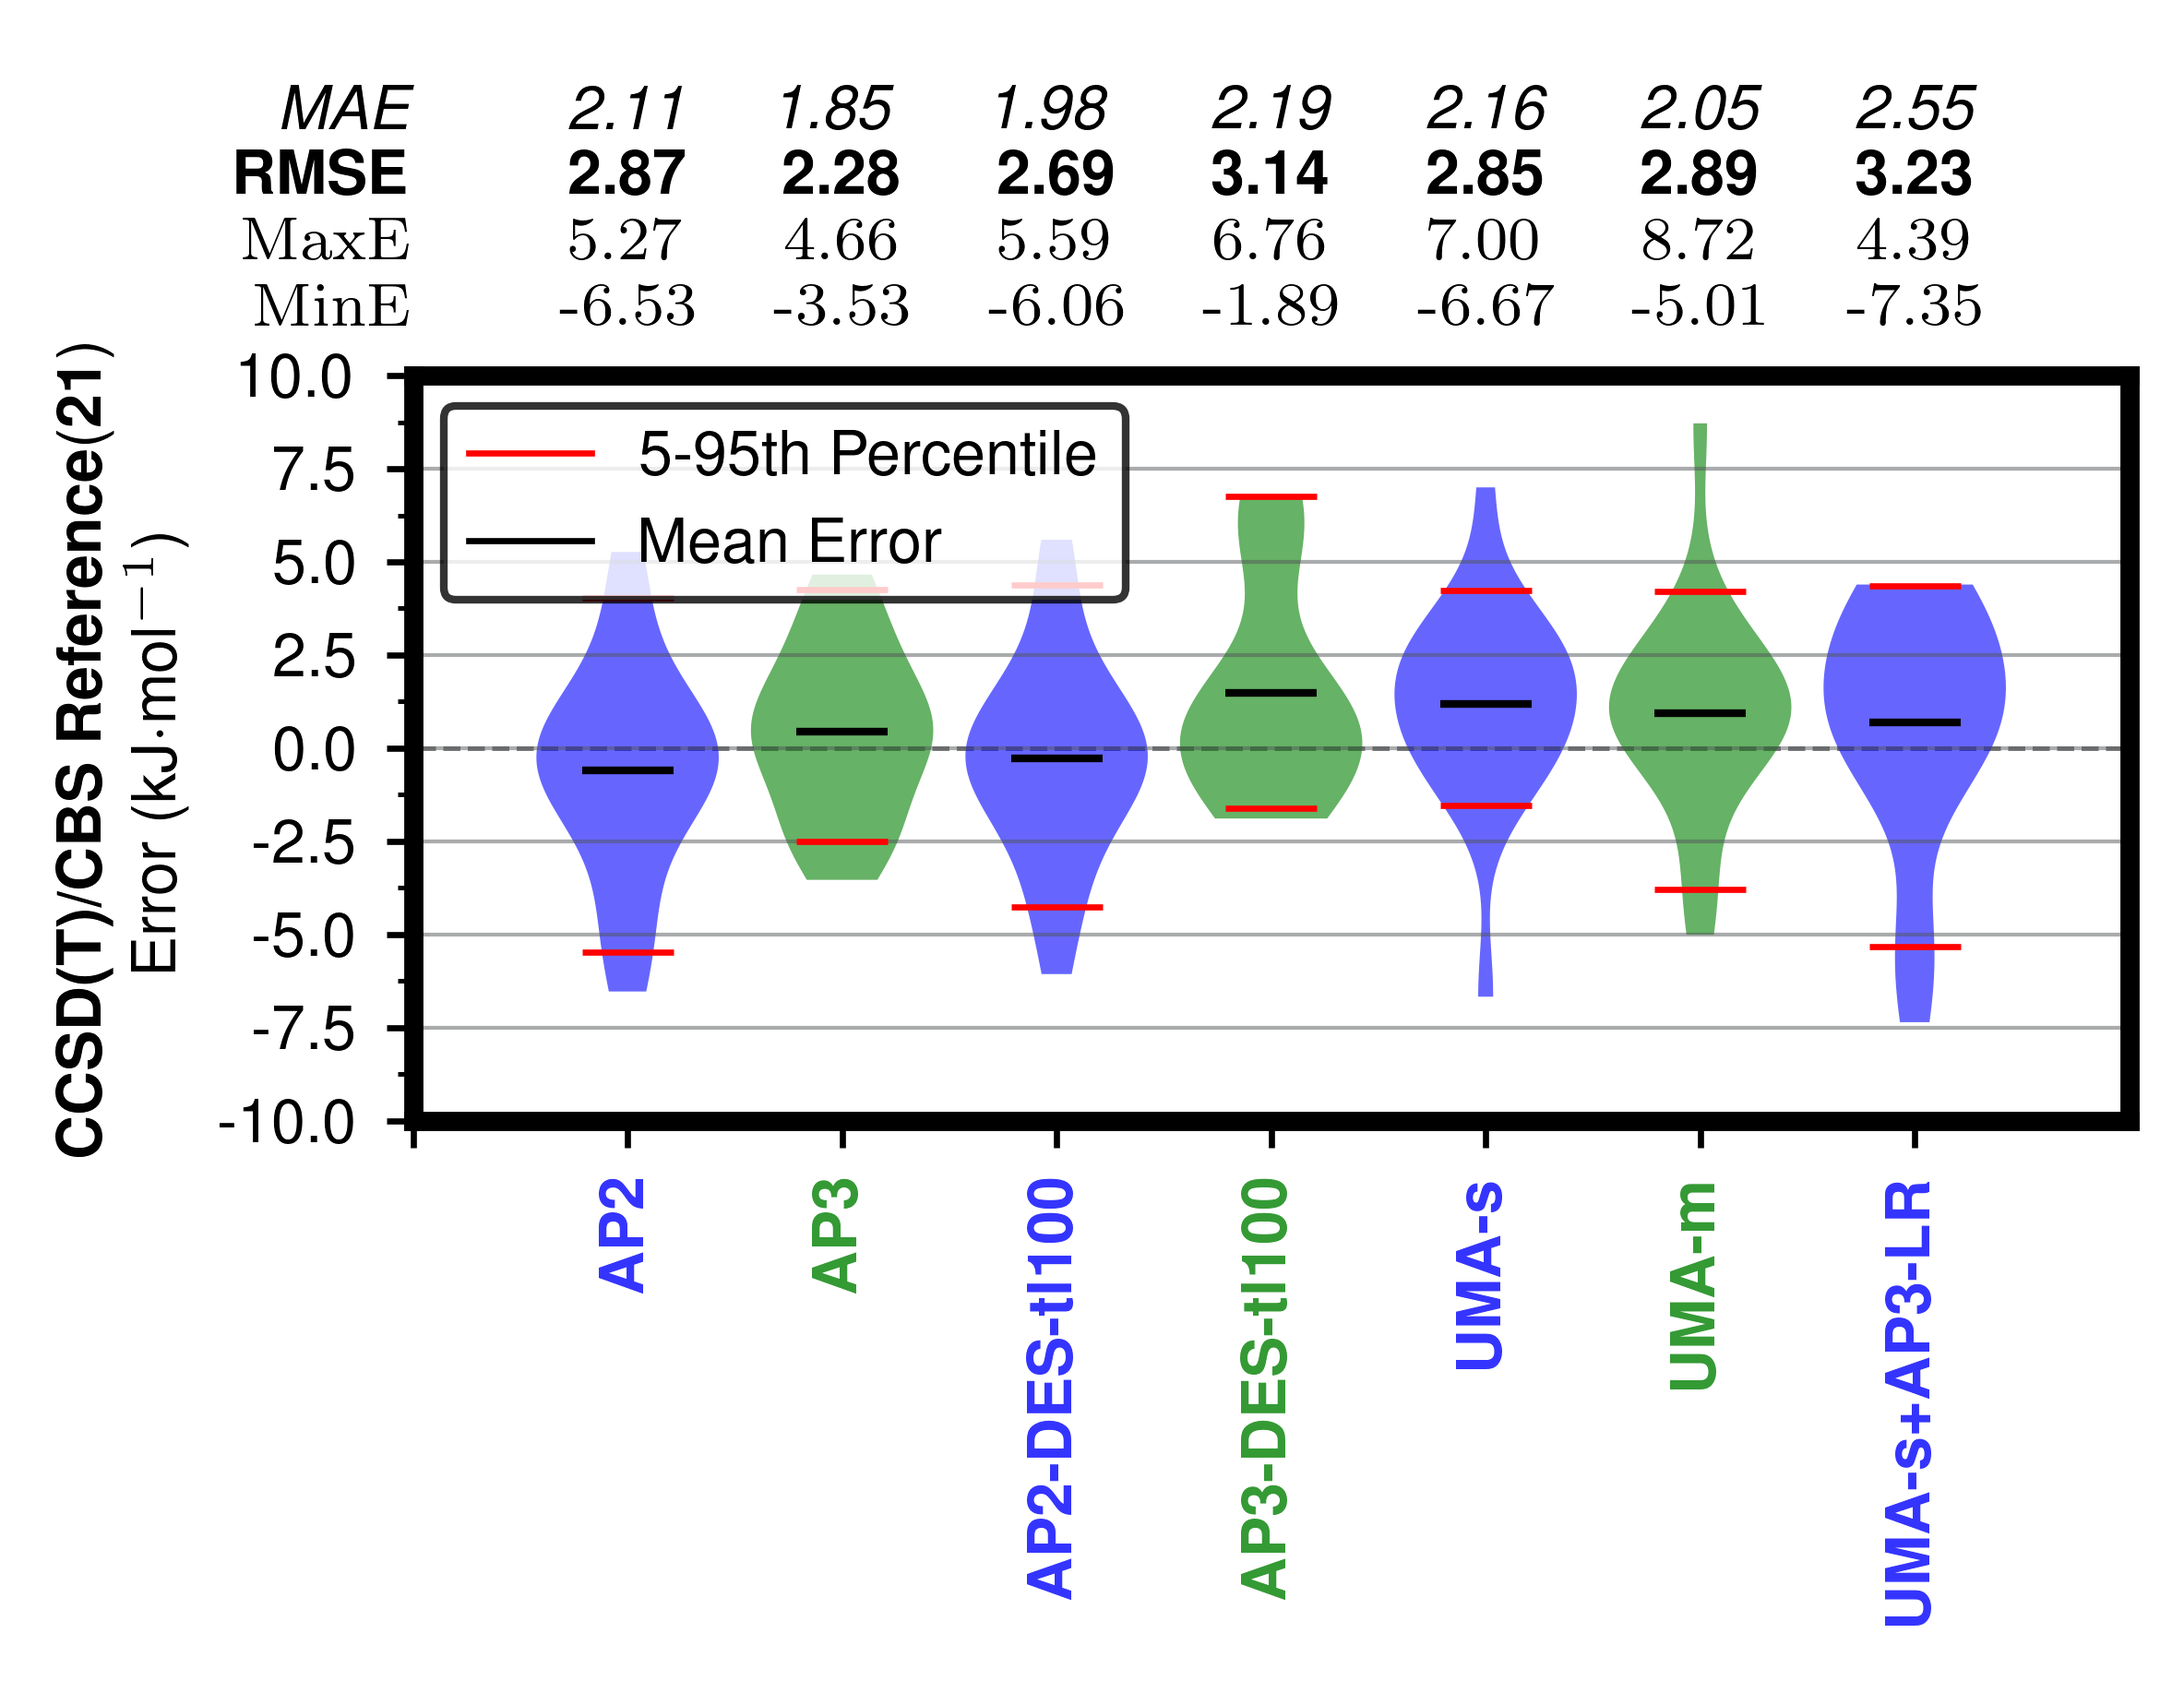
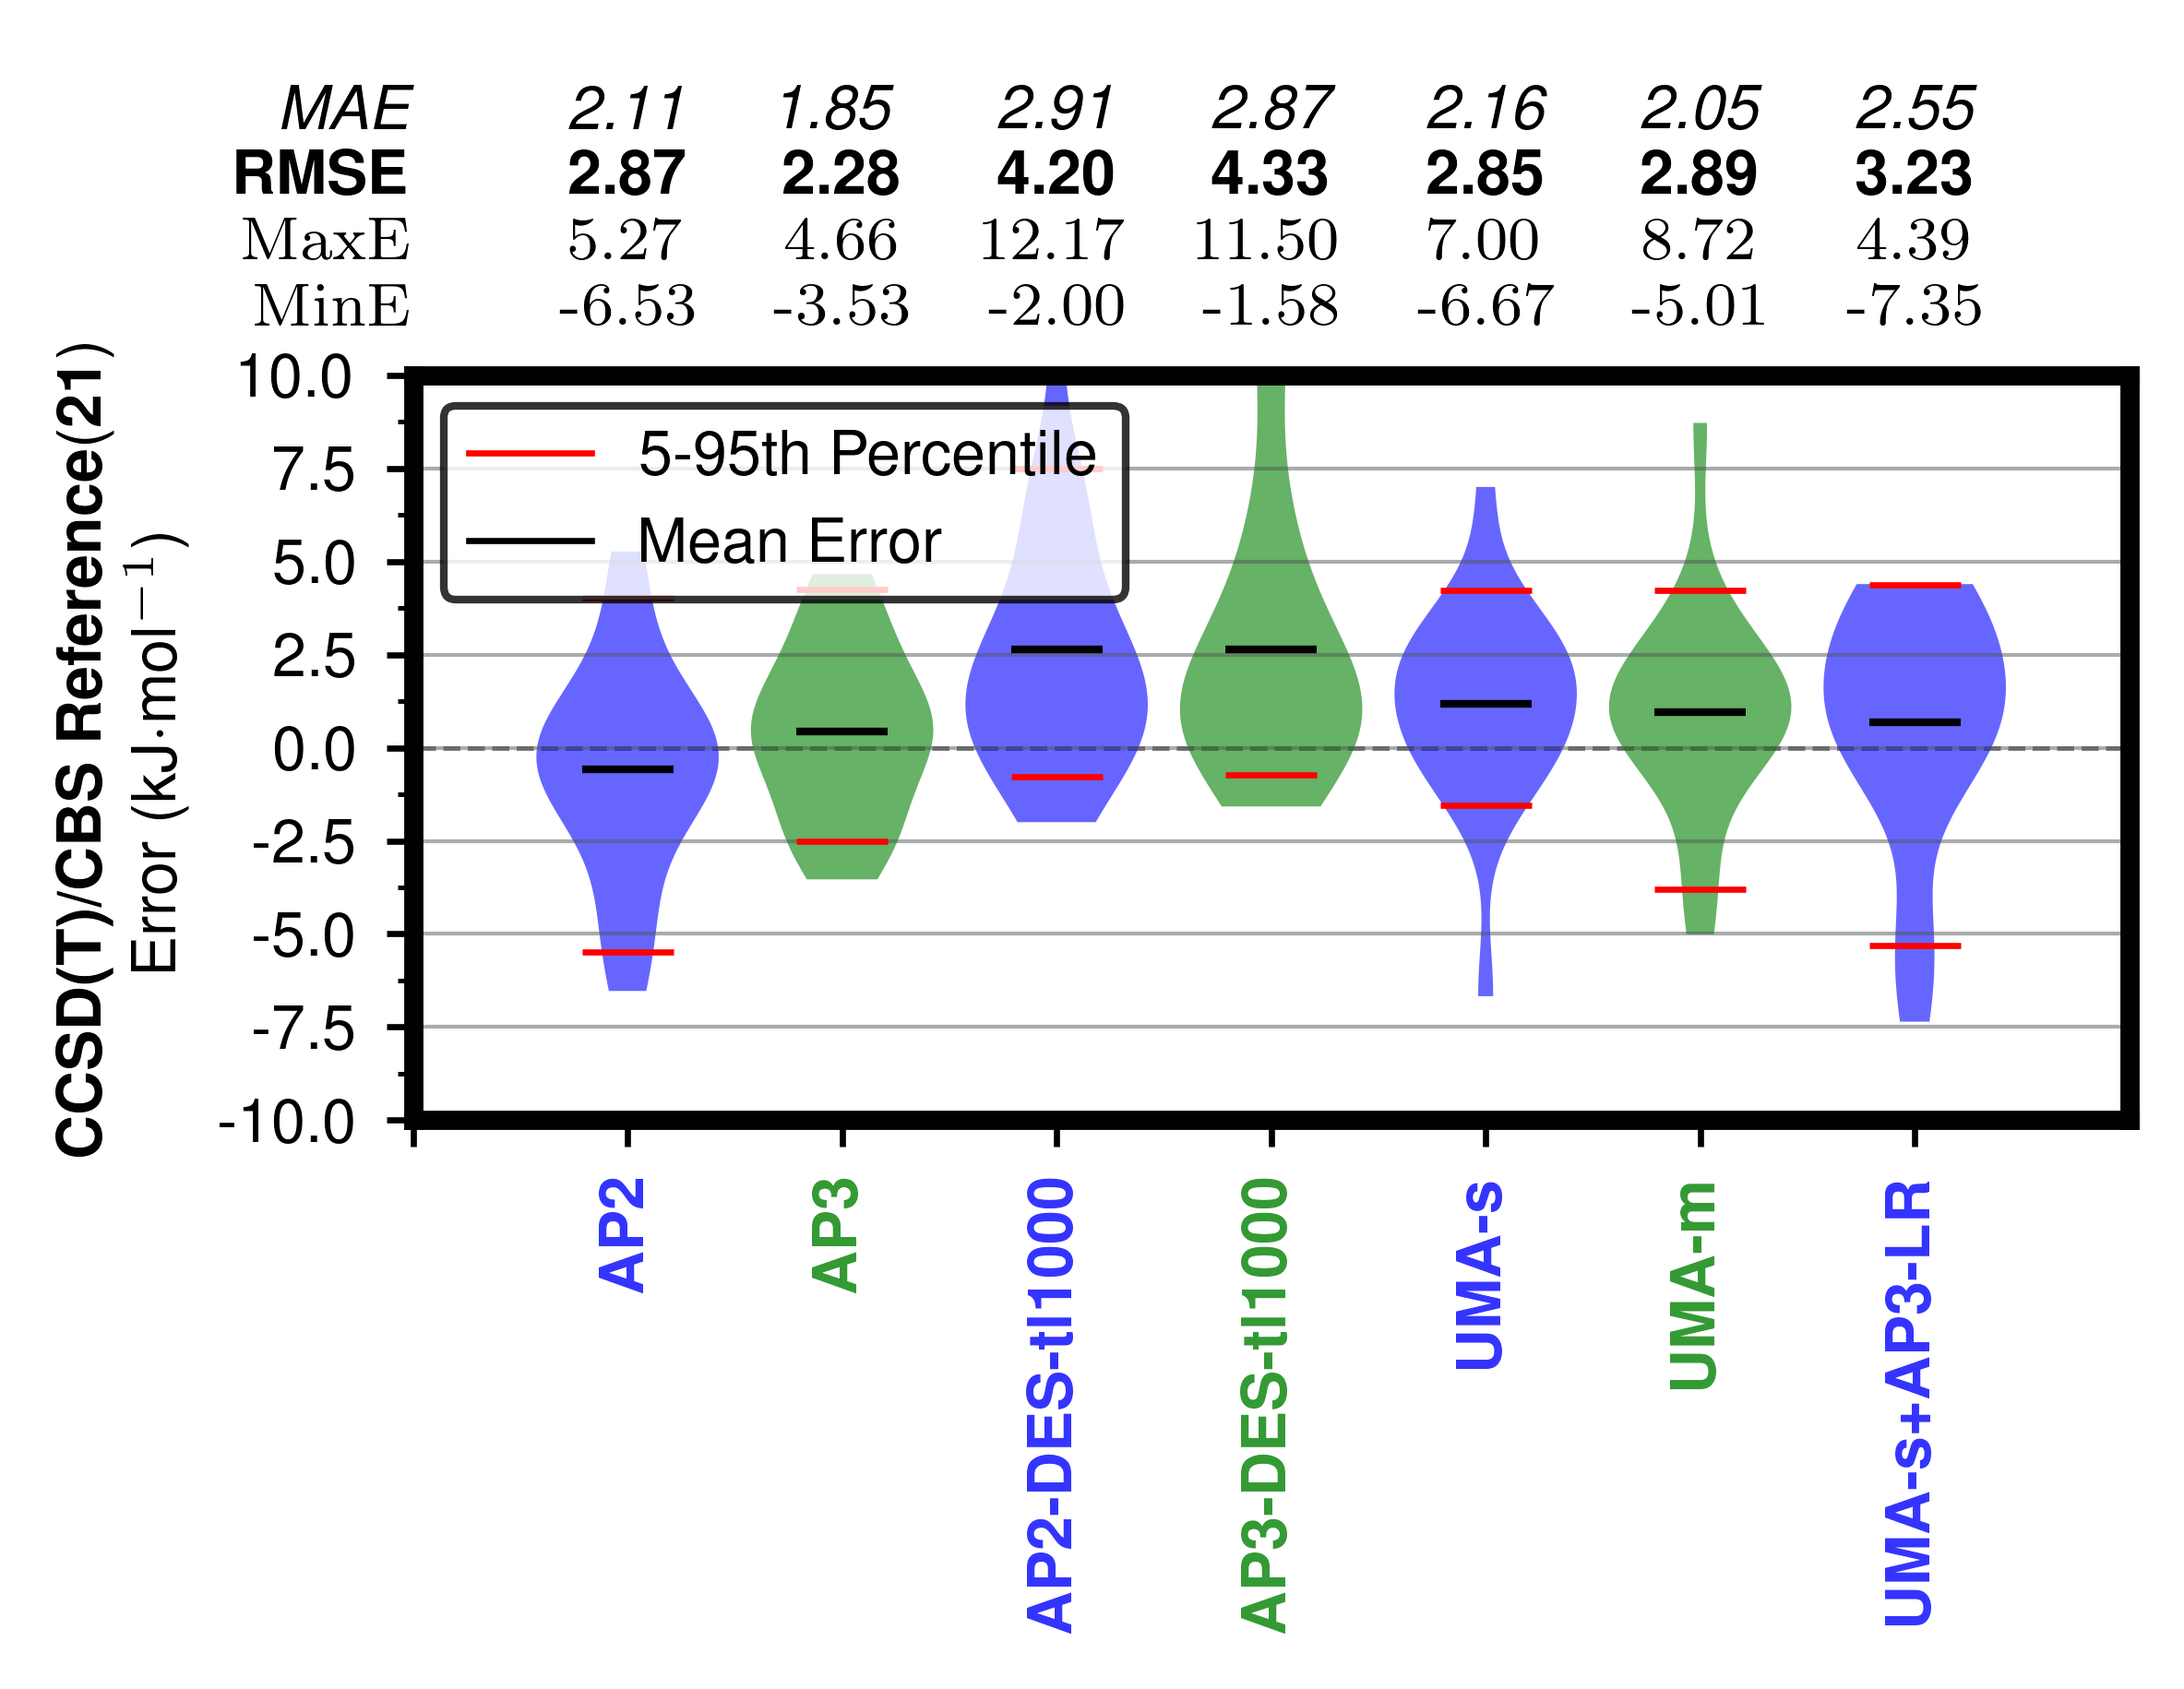
1009

diff --git a/crystals/crystal_main.py b/crystals/crystal_main.py
@@ -3199,7 +3199,7 @@ def main():
     #     ap2_ap3_df_energies_des370k_tl(v='bm', N=tl_N)
     #     ap2_ap3_df_energies_des370k_tl(v='apprx', N=tl_N)
     # plot_crystal_violin_errors(0, sft=False, tl_N=1000)
-    plot_crystal_lattice_energies_with_N(5, sft=False, tl_N=100)
+    plot_crystal_lattice_energies_with_N(5, sft=False, tl_N=1000)
     # plot_crystal_lattice_energies_with_N(5, sft=False)
     return
 
